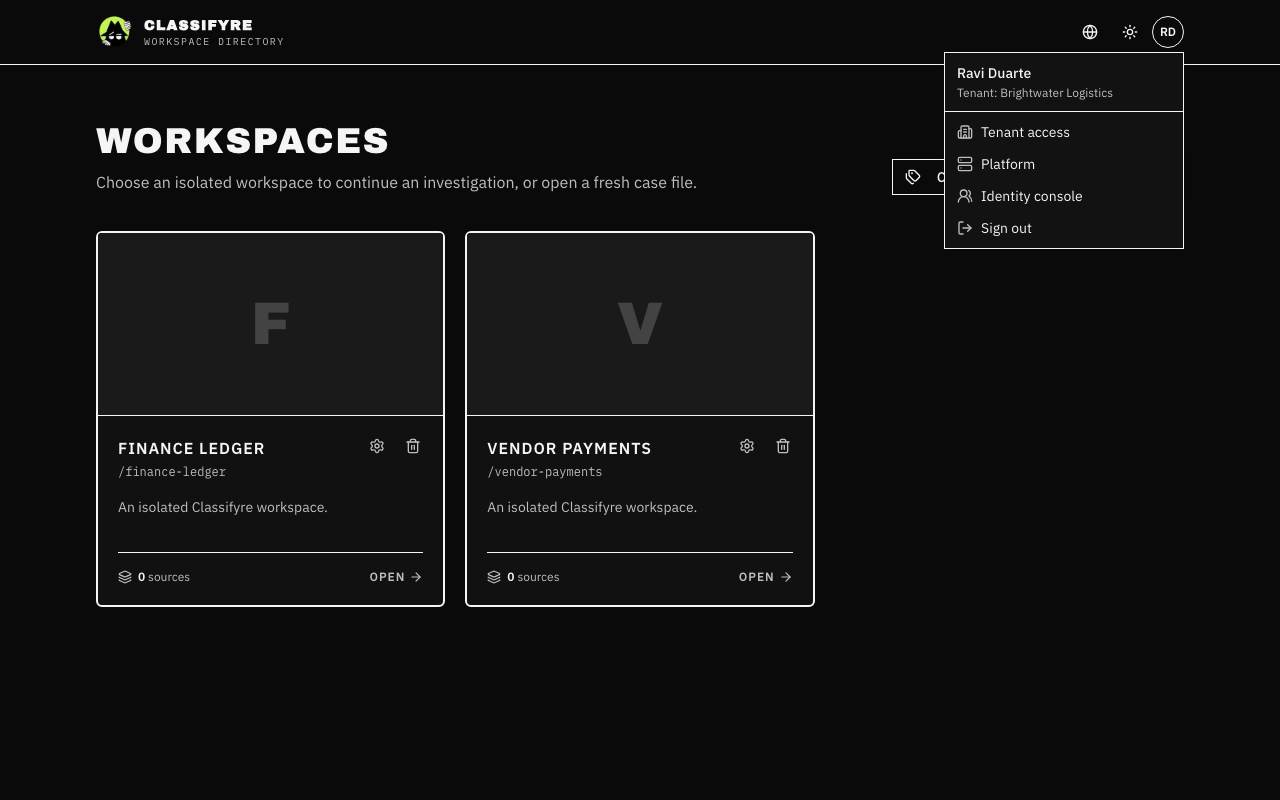
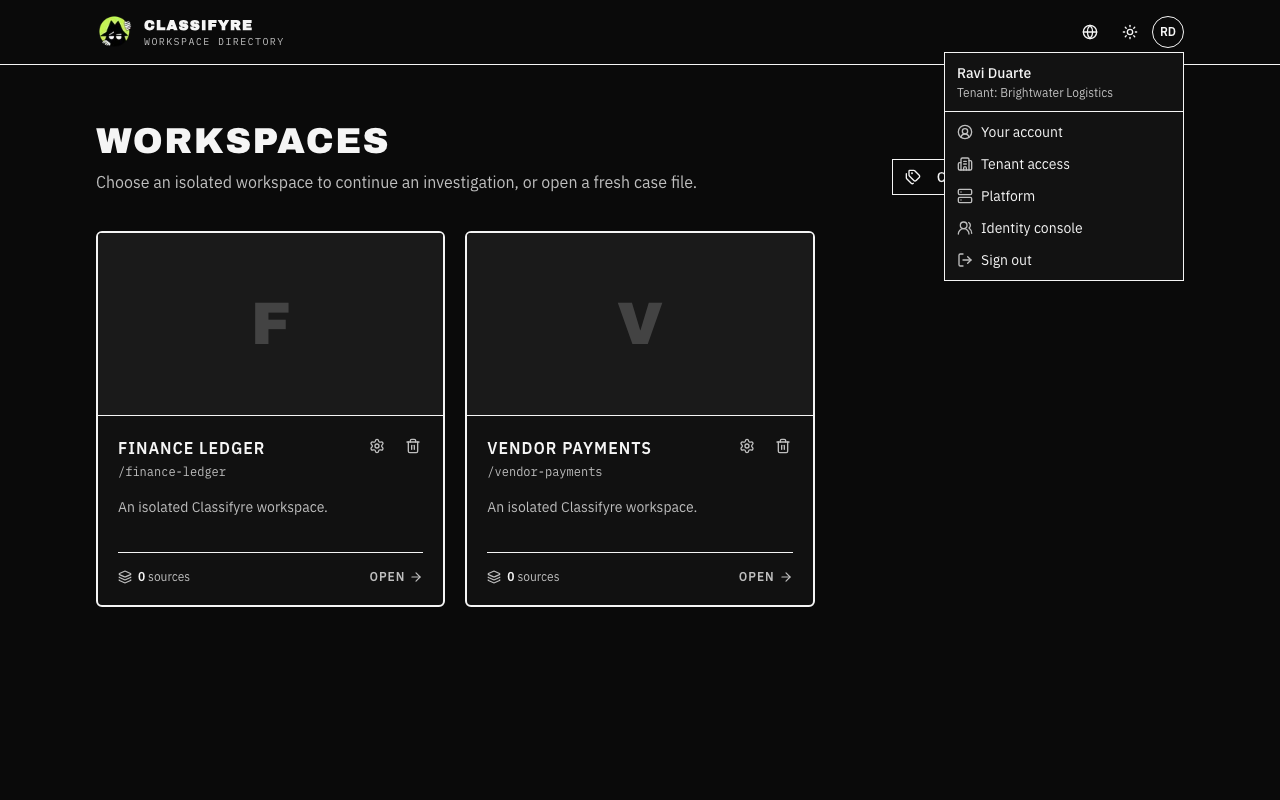
feat(iam): Your account in the account menu opens the identity server's account page
Name, email, password, two-factor, sessions and sign-in language live on the
identity server's own account page, already in Classifyre's look;
/auth/account/ redirects there through the /iam proxy. Classifyre keeps no
profile logic. Moving the language switch itself there was considered and
dropped (recorded in the PRD).

Changed region(s): [[0.75, 0.1562, 0.8438, 0.25], [0.75, 0.2812, 0.8438, 0.3438]]

diff --git a/apps/web/components/account-menu.tsx b/apps/web/components/account-menu.tsx
@@ -1,7 +1,7 @@
 "use client";
 
 import * as React from "react";
-import { Building2, LogIn, LogOut, Server, UserRound, UsersRound } from "lucide-react";
+import { Building2, CircleUserRound, LogIn, LogOut, Server, UserRound, UsersRound } from "lucide-react";
 import { api, type TenantMembershipDto } from "@workspace/api-client";
 import { Button } from "@workspace/ui/components/button";
 import {
@@ -103,6 +103,12 @@ export function AccountMenu() {
             <DropdownMenuSeparator />
           </>
         )}
+        <DropdownMenuItem asChild>
+          <a href="/auth/account/" target="_blank" rel="noreferrer" data-testid="your-account">
+            <CircleUserRound className="size-4" />
+            {t("account.yourAccount")}
+          </a>
+        </DropdownMenuItem>
         {tenant?.capabilities.includes("tenant.access.manage") && (
           <DropdownMenuItem asChild>
             <a href="/tenant/">

diff --git a/apps/web/lib/iam/console.spec.ts b/apps/web/lib/iam/console.spec.ts
@@ -1,4 +1,4 @@
-import { identityConsolePath } from "./console";
+import { accountPagePath, identityConsolePath } from "./console";
 
 const env = {
   IAM_ENABLED: "true",
@@ -30,5 +30,16 @@ describe("identity console link", () => {
     ).toBeNull();
     expect(identityConsolePath({ ...env, IAM_ENABLED: "false" })).toBeNull();
     expect(identityConsolePath({ ...env, IAM_REALM: "" })).toBeNull();
+  });
+});
+
+describe("account page link", () => {
+  it("opens the person's own account page in the realm, with sign-in only", () => {
+    expect(accountPagePath(env)).toBe("/iam/realms/classifyre/account/");
+    expect(accountPagePath({ ...env, IAM_REALM_CONSOLE: "false" })).toBe(
+      "/iam/realms/classifyre/account/",
+    );
+    expect(accountPagePath({ ...env, IAM_ENABLED: "false" })).toBeNull();
+    expect(accountPagePath({ ...env, IAM_REALM: "../master" })).toBeNull();
   });
 });

diff --git a/apps/web/app/auth/account/route.ts b/apps/web/app/auth/account/route.ts
@@ -1,0 +1,18 @@
+import { NextResponse } from "next/server";
+import { accountPagePath } from "@/lib/iam/console";
+import { iamWebConfig } from "@/lib/iam/session";
+
+export const runtime = "nodejs";
+export const dynamic = "force-dynamic";
+
+/**
+ * Opens the person's own account page in the identity server (name, email,
+ * password, two-factor, sessions, language), served through the `/iam`
+ * proxy in Classifyre's look. Classifyre keeps no profile of its own.
+ */
+export function GET() {
+  const config = iamWebConfig();
+  const path = config ? accountPagePath(process.env) : null;
+  if (!path) return new NextResponse(null, { status: 404 });
+  return NextResponse.redirect(new URL(path, config!.appUrl), 307);
+}

diff --git a/apps/e2e/docs/iam-screenshots.spec.ts b/apps/e2e/docs/iam-screenshots.spec.ts
@@ -295,6 +295,14 @@ test("Access docs screenshots", async ({ browser }) => {
     }
   });
 
+  await test.step("everyone's own account page", async () => {
+    const person = await signIn(browser, "tbrenner");
+    await person.page.goto("/auth/account/");
+    await expect(person.page.getByText("Personal info").first()).toBeVisible();
+    await shot(person.page, "account-page");
+    await person.context.close();
+  });
+
   await test.step("someone in no organization yet", async () => {
     const newcomer = await signIn(browser, "kstrand");
     await newcomer.page.waitForURL(/\/auth\/no-tenant\//, { timeout: 60_000 });

diff --git a/apps/web/lib/iam/console.ts b/apps/web/lib/iam/console.ts
@@ -19,3 +19,17 @@ export function identityConsolePath(
       : "organizations";
   return `/iam/admin/${realm}/console/#/${realm}/${view}`;
 }
+
+/**
+ * Path of the person's own account page behind the `/iam` proxy: name,
+ * email, password, two-factor, sessions and language, in Classifyre's look.
+ * Null without sign-in.
+ */
+export function accountPagePath(
+  env: Record<string, string | undefined>,
+): string | null {
+  if (env.IAM_ENABLED !== "true") return null;
+  const realm = env.IAM_REALM?.trim();
+  if (!realm || !/^[A-Za-z0-9_-]+$/.test(realm)) return null;
+  return `/iam/realms/${realm}/account/`;
+}

diff --git a/docs/prd/IAM-access-management.md b/docs/prd/IAM-access-management.md
@@ -845,6 +845,8 @@ Asked for: the identity server in Classifyre's style (sign-in page on the landin
 
 **Languages (2026-11-08):** the realm setup job turns on internationalization with Classifyre's languages (`en`, `de`, default `en`), so the sign-in pages follow the browser and offer a switch, and the identity server keeps a signed-in person's pick as their `locale`. `/auth/login` passes `ui_locales` from the `returnTo` path prefix, else the `classifyre-language` cookie (`lib/iam/sign-in-locale.ts`). Not built yet (asked to wait): the web reading the account's `locale` after sign-in and writing the web's switch back to the account, which needs the web client to reach the account API. Visitors, sign-in off and the Docker image keep URL prefix, cookie, browser.
 
+**Your account (2026-11-08):** the account menu links everyone signed in to the identity server's account page (`/auth/account/` → `/iam/realms/<realm>/account/`, through the proxy, in the theme): name, email, password, two-factor, sessions, sign-in language. Considered and dropped: moving the language switch itself to the identity server. Visitors, sign-in off and the Docker image would still need the app's switch, the web would have to read the language from the token before rendering, and a change would only arrive with the next token; one switch in the app stays, and the identity server follows it at sign-in.
+
 **Review of the whole feature (2026-11-08), and what was done about it:**
 - High: `%2F` and `..` inside a catch-all segment (Next decodes after splitting) let the `/iam` proxy reach the master realm. Segments with `/`, `\`, `.` or `..` are refused (`allowedIamPath`), with tests; confirmed closed live.
 - Operator rights were near realm-admin (clients' secrets, flows, realm settings): narrowed as above.

diff --git a/changelog.d/your-account-page.added.md b/changelog.d/your-account-page.added.md
@@ -1,0 +1,1 @@
+**Your account** in the account menu opens your own account page, in Classifyre's look: change your name, email, password and two-factor sign-in, see where you are signed in, and pick the language of the sign-in pages.
